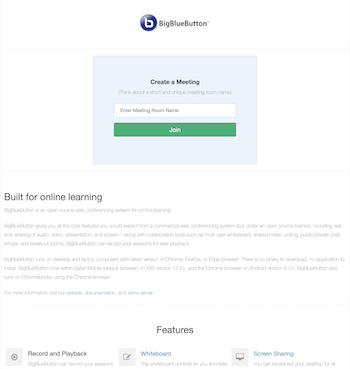
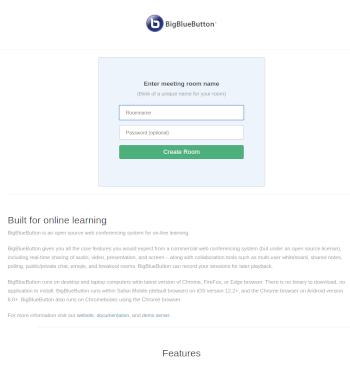
added passwordoption and advanced user interaction

diff --git a/app.js b/app.js
@@ -12,6 +12,8 @@ const host = process.env.HOST || '0.0.0.0'
 const BBB_API_URL = process.env.BBB_API_URL
 const BBB_API_SECRET = process.env.BBB_API_SECRET
 const WELCOME_MESSAGE = process.env.WELCOME_MESSAGE
+const NOPW_WELCOME_MESSAGE = process.env.NOPW_WELCOME_MESSAGE
+const MOD_WELCOME_MESSAGE = process.env.MOD_WELCOME_MESSAGE
 
 // TODO: internationalize more
 slugify.extend({'ä': 'ae', 'ü': 'ue', 'ö': 'oe', 'ß': 'ss'})
@@ -56,6 +58,15 @@ const joinMeetingUrl = function (id, name, password) {
   return buildApiUrl('join', params);
 }
 
+const generateRandomPassword = function () {
+  const alpha = 'qwertyuiopasdfghjklzxcvbnm';
+  var password = '';
+  for (let i=0;i<24;i++) {
+    password += alpha[Math.floor(Math.random() * alpha.length)]
+  }
+  return password;
+}
+
 app.use(express.static('public'))
 app.set('view engine', 'ejs')
 app.set('trust proxy', 'loopback')
@@ -66,39 +77,105 @@ app.get('/', function(req, res) {
 })
 
 app.get('/b', function (req, res) {
-  res.render('index')
+  res.render('index', {
+    roomName: req.query.roomName,
+    roomBlocked: req.query.roomBlocked,
+    roomMissing: req.query.roomMissing })
 })
 
+
+// create a room (optionally with password)
+// if password is set provide mod and user pw for welcome message
 app.post('/b', async function (req, res) {
   var roomName = req.body.room
   var room = slugify(roomName, { lower: true })
-  var options = {}
 
+  // if user provides password within room creation, set prefix "user-"  otherwise set it to "auto-"
+  var room_password;
+  var custom_password = req.body.room_password;
+  if (custom_password) {
+      // generate random moderator password to give possibility to provide it in welcome message
+    var moderator_password = generateRandomPassword();
+    room_password = "user-" + custom_password;
+    // add passwords to options for room creation
+    var options = { 'attendeePW' : room_password, 'moderatorPW' : moderator_password }
+  }else {
+    // create random password with "auto-" prefix. Not entirely necessary, but theoretically random password
+    // could start with "user-" and might therefore accidentally be interpreted as manual pw
+    room_password = "auto-" + generateRandomPassword();
+    var options = { 'attendeePW' : room_password }
+  }
+
+  //set welcome message(s)
   if (typeof WELCOME_MESSAGE === 'string') {
-    var url = req.protocol + '://' + req.get('host') + '/b/' + room
+    var url = req.protocol + '://' + req.get('host') + '/b/' + roomName
     var joinpattern = new RegExp('%%JOINURL%%', 'g')
-    options.welcome = WELCOME_MESSAGE.replace(joinpattern, url)
+    //if the room has a manual password set we will provide two welcome msgs and only inform moderators about joining options and passwords
+    if (room_password.startsWith('user-')) {
+      var mpasswd = new RegExp('%%MPASSWD%%', 'g')
+      var upasswd = new RegExp('%%UPASSWD%%', 'g')
+      var modwelcome = MOD_WELCOME_MESSAGE.replace(joinpattern, url)
+      modwelcome = modwelcome.replace(mpasswd, moderator_password)
+      options.moderatorOnlyMessage = modwelcome.replace(upasswd, custom_password)
+      options.welcome = WELCOME_MESSAGE
+    } else {
+      // welcome message with no manual pw gets joinurl
+      options.welcome = NOPW_WELCOME_MESSAGE.replace(joinpattern, url)
+    }
   }
 
   var meet = await createMeeting(roomName, room, options)
-  if (meet.returncode === 'FAILED' && meet.messageKey !== 'idNotUnique') {
-    res.redirect('/b')
-    return
+    //check if roomcreation was not succesful
+  if (meet.returncode === 'FAILED') {
+      //if room exists put warning message on page - else just go back
+    if (meet.messageKey === 'idNotUnique') {
+      // timeout as a very basic bruteforce prevention to prevent room search
+      setTimeout(function (){
+        res.redirect('/b' + `?roomName=${encodeURIComponent(roomName)}&roomBlocked=true`);
+      }, 1000);
+      return
+    } else {
+      res.redirect('/b');
+      return
+    }
   }
 
-  res.redirect('/b/' + room)
+  //slugify roomName because room contains prefix
+  res.redirect('/b/' + room )
 })
 
 app.get('/b/:room', async function (req, res){
-  var room = slugify(req.params.room)
-
+  // added slugify lower to prevent error if accidental uppercase or special characters are in adress
+  var room = slugify(req.params.room, { lower: true })
   var info = await getMeetingInfo(room)
+
+  //check if meeting info was not succesfully grabbed and in case redirect with error message (room not created)
   if (info.returncode === 'FAILED') {
-    res.redirect('/b')
+      // timeout as a very basic bruteforce prevention to prevent room search
+      setTimeout(function (){
+        res.redirect('/b' + `?roomName=${encodeURIComponent(req.params.room)}&roomMissing=true`)
+      }, 1000);
     return
   }
 
-  res.render('join', { room: room, info: info })
+  // This variable decides whether we display a password dialogue.
+  // Normally, meetings require no user provided password...
+  var requiresPassword = false;
+  // ... unless one is set
+  if (info.attendeePW.startsWith('user-')) {
+    requiresPassword = true;
+  }
+  // ... except when the room is empty, then we'll become the moderator anyway.
+  if (info.hasUserJoined == false || info.participantCount == 0) {
+    requiresPassword = false;
+  }
+
+  res.render('join', {
+    room: room,
+    info: info,
+    requiresPassword: requiresPassword,
+    username: req.query.username,
+    wrongPw: req.query.wrongPw })
 })
 
 app.post('/b/:room', async function (req, res) {
@@ -111,10 +188,26 @@ app.post('/b/:room', async function (req, res) {
   }
 
   var password = info.attendeePW
+  // check if there is anybody in the meeting - if not give moderator rights
   if (info.hasUserJoined == false || info.participantCount == 0) {
     password = info.moderatorPW
+  // if there is somebody in the meeting get the attendee pw and check if it is manually set (starts wit user-) otherwise just join as attende
+  } else {
+    password = info.attendeePW;
+    if (password.startsWith('user-')) {
+      // check if provided login password matches required password if not redirect to login page with error
+      if (password != "user-" + req.body.room_password) {
+        password = info.moderatorPW;
+        if (password != req.body.room_password) {
+          // timeout as a very basic bruteforce prevention - double time for password try (2 seconds)
+          setTimeout(function (){
+            res.redirect('/b/' + info.meetingName + `?username=${encodeURIComponent(name)}&wrongPw=true`);
+          }, 2000);
+          return;
+        }
+      }
+    }
   }
-
   res.redirect(joinMeetingUrl(room, name, password))
 })
 

diff --git a/README.md b/README.md
@@ -1,7 +1,9 @@
 bbb-easy-join
 -------------
 
-An easy frontend to BigBlueButton without signups - everybody can just entry a meeting room name, the first user gets moderator level access.
+An easy frontend to BigBlueButton without signups - everybody can just enter a meeting room name and an optional password.
+The first user gets moderator level access.
+
 
 <img src="docs/overview.png" width="350" /> <img src="docs/join-room.png" width="350" />
 
@@ -9,10 +11,16 @@ An easy frontend to BigBlueButton without signups - everybody can just entry a m
 
 Tested with an BBB instance installed with [bbb-install.sh](https://github.com/bigbluebutton/bbb-install).
 
+Installation requires git and bbb to be installed on the same machine
+
+```bash
+sudo apt install git
+```
+
 Checkout this repository to /var/www/bbb-easy-join
 
 ```
-git clone https://github.com/stadtulm/bbb-easy-join.git /var/www/bbb-easy-join
+git clone https://github.com/svoeth/bbb-easy-join.git /var/www/bbb-easy-join
 sudo chown -r bigbluebutton: /var/www/bbb-easy-join
 sudo -iu bigbluebutton
 cd /var/www/bbb-easy-join
@@ -23,11 +31,21 @@ Create an `.env` file (use `.env.sample` as a template) and enter your BBB API U
 
 For serving the pages, copy `bbb-easy-join.nginx` to `/etc/bigbluebutton/nginx/`. If there are already `greenlight-redirect.nginx` and/or `greenlight.nginx`, rename (remove the .nginx suffix) or delete them.
 
-If you want to keep the service running, the systemd service file `bbb-easy-join.service` can be copied to `/etc/systemd/system/` and activated by `sudo systemctl daemon-reload`, `sudo systemctl enable bbb-easy-join` and `sudo systemctl start bbb-easy-join`.
+You can start the service by running `/usr/bin/node /var/www/bbb-easy-join/app.js`
+If you want to keep the service running in background and on startup:
+```bash
+# copy the systemd service file and register it with systemd
+cp bbb-easy-join.service /etc/systemd/system/
+sudo systemctl daemon-reload
+# activate it to start on startup
+sudo systemctl enable bbb-easy-join
+# start it immediately 
+sudo systemctl start bbb-easy-join
+```
 
 ### Note
 
-Your BigBlueButton Instance is then (if not only reachable from inside your network) public, everybody can create and moderate/present in a meeting. Therefore, you may want to think about disabling recordings, the security of accepting presentation files etc.
+Your BigBlueButton Instance is then (if not only reachable from inside your network or protected otherwise) public, everybody can create and moderate/present in a meeting. Therefore, you may want to think about disabling recordings, the security of accepting presentation files etc.
 
 ### Credits
 
